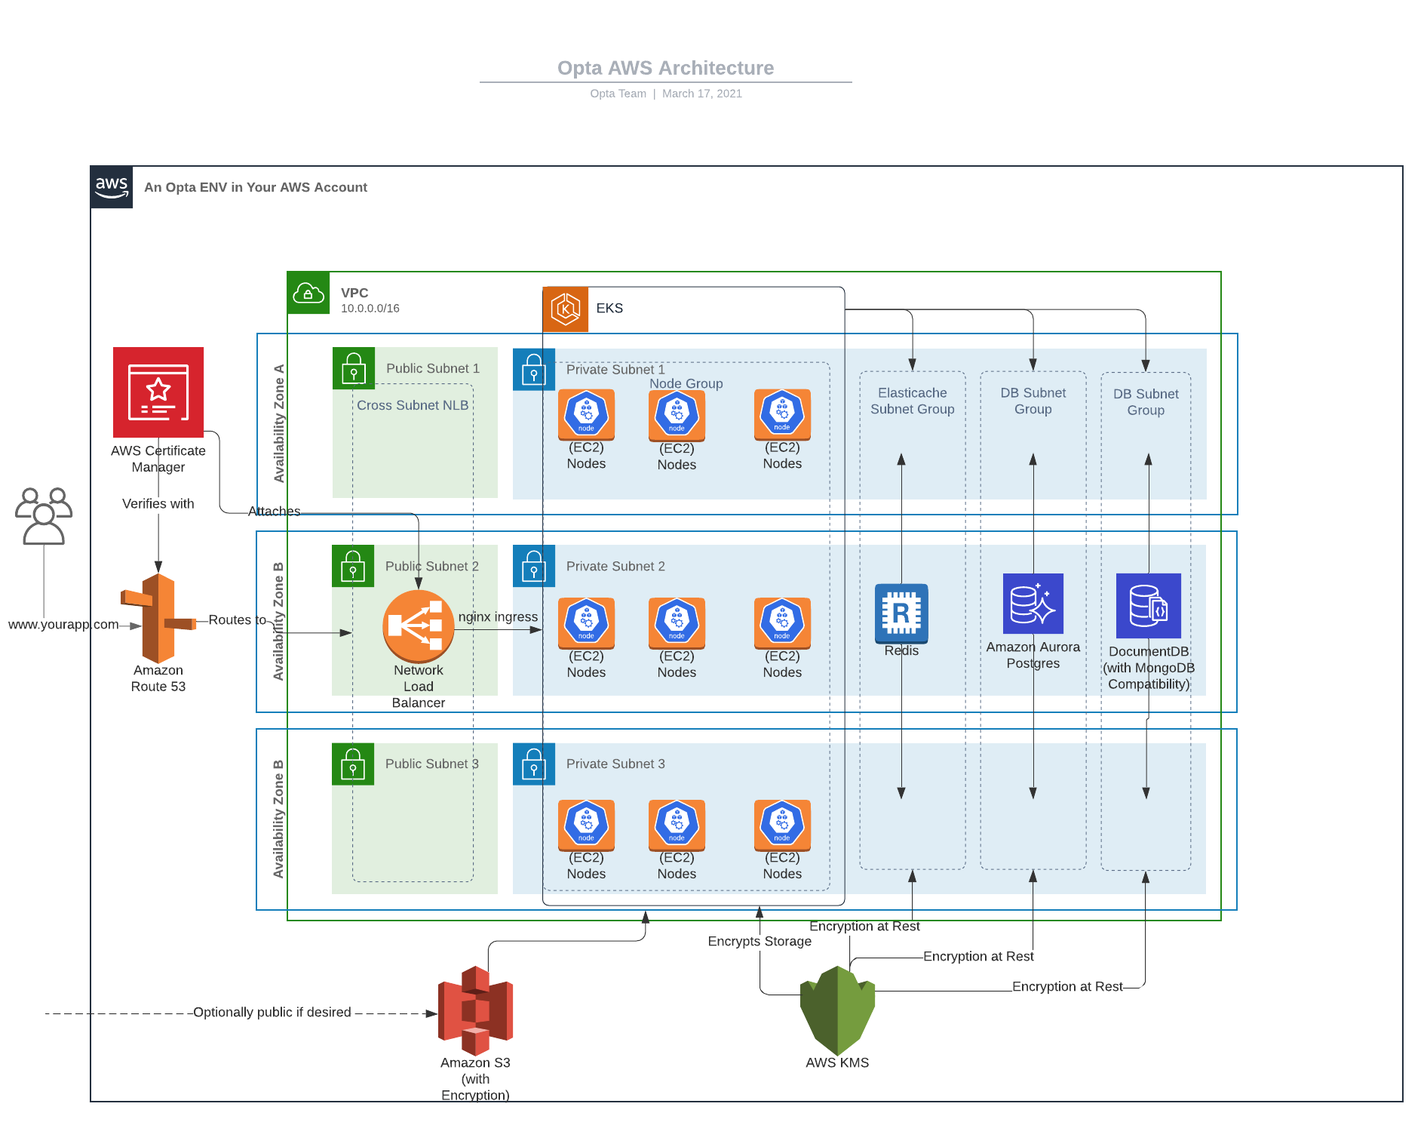
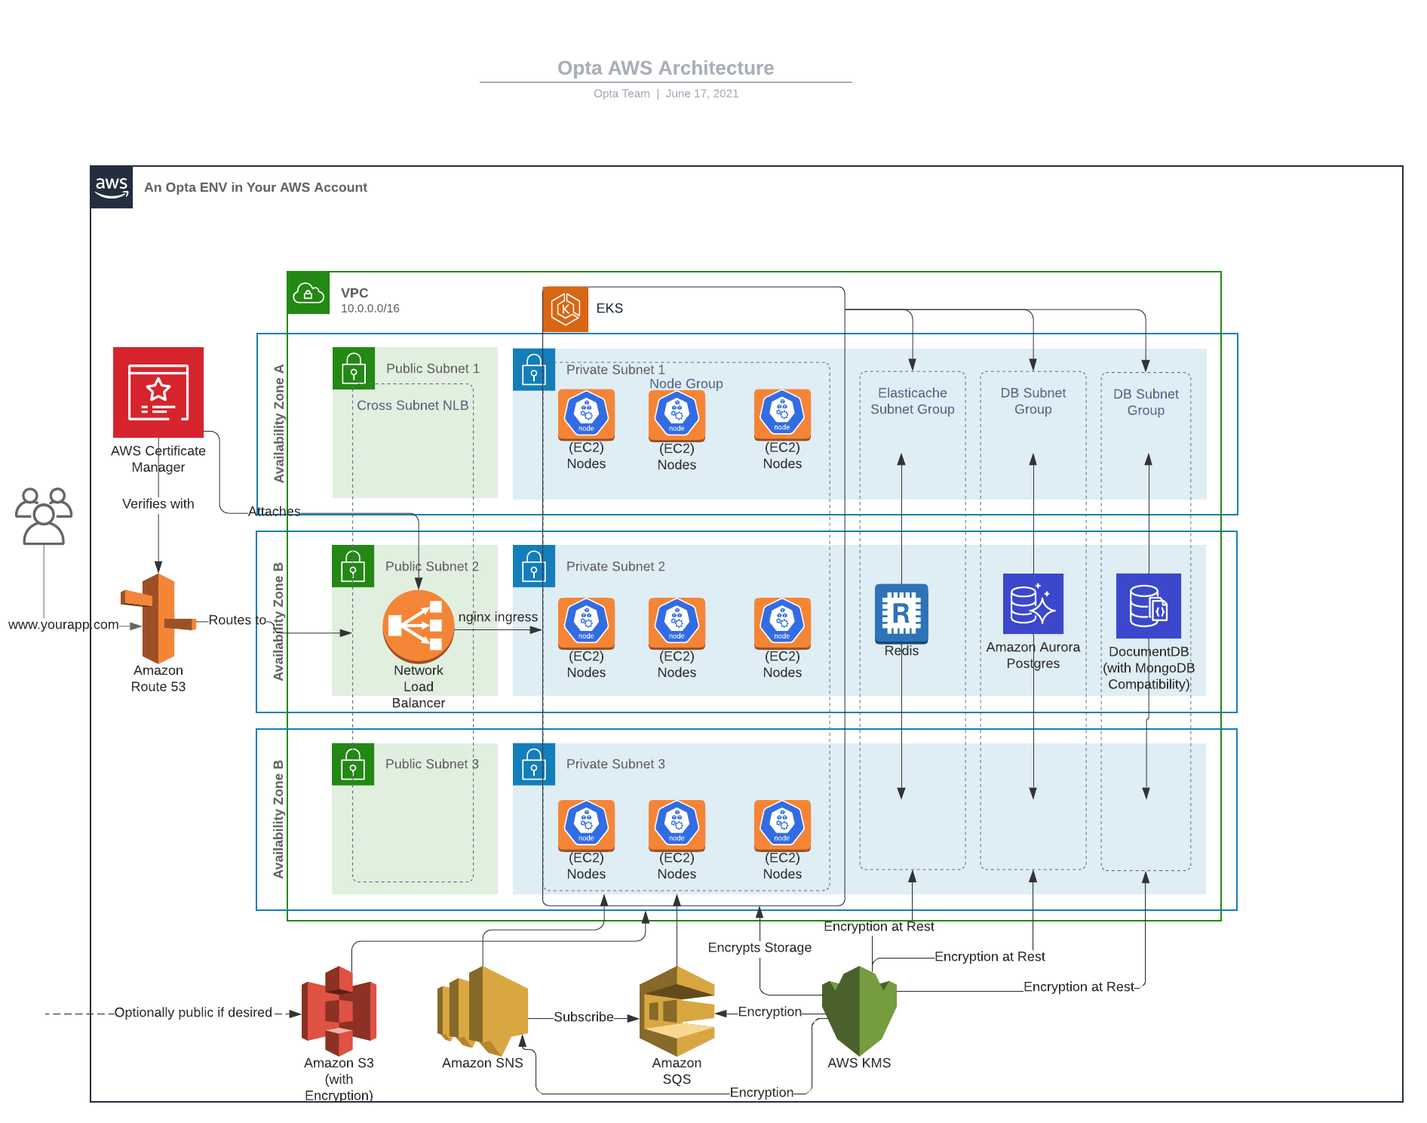
Adding GCP architecture and some updates/refactoring

diff --git a/content/en/Architecture/_index.md b/content/en/Architecture/_index.md
@@ -11,111 +11,3 @@ sets up a sophisticated, yet robust, architecture for your services and environm
 architecture can be broken up between resources in the base cloud provider (e.g. AWS, GCP), and internal to the 
 kubernetes clusters we deploy. Below are the specifications and answers for the common security questions.
 
-## AWS
-![image alt text](/images/opta_aws_architecture.png)
-For AWS our environments are currently setup within a single region, but our networking is set up across 3 availability
-zones by default, split between a private and public subnet (which we provision as we do not use the default vpc). 
-The public subnet is solely used for the public load balancer, while the ec2s (VMs) and databases all exist within
-the private subnet.
-
-We deploy the EKS cluster with one nodegroup spanning all the private subnets created. The current EKS cluster version
-is 1.18, but this can be manually overridden if needed (and we get security patches as needed automatically via EKS).
-Currently, there is a public cluster endpoint, but this may be revisited once a story for VPN support is planned out.
-[Encryption for the secrets is also provided via KMS](https://aws.amazon.com/blogs/containers/using-eks-encryption-provider-support-for-defense-in-depth/).
-
-For databases, we currently have modules for postgres (AWS Aurora), redis (AWS Elasticache), and the mongodb compatible
-documentdb (AWS Documentdb). We only offer 1 instance per db (no read or write replicas), but we hope to add this
-feature as customers demand. The postgres and documentdb databases are built with 5 day retention of backups in case of
-emergency. The username and passwords are created with the database and are passed securely to the K8s services as 
-secrets (pls see K8s section for security around secrets).
-
-There also is a module for S3 storage, which creates a private bucket by default (but can be set to public via fields)
-and all the buckets are encrypted at rest with AES 256 regardless.
-
-Lastly, DNS and SSL are currently handled via one Route53 hosted zone and one ACM certificate respectively. ACM cert
-verification is done with Route53 record manipulation in the given hosted zone. Records will be added to the hosted
-zone directing to the load balancer via an open source integration (see K8s section).
-
-### Security Concerns
-* All databases and ec2s are run within the private subnets (i.e. can access the internet via a nat gateway, but 
-  nothing external can reach them).
-* All databases (redis, documentdb, sql) are encrypted at rest with a KMS key provisioned by the environment.
-* All database connections use SSL encryption.
-* All S3 buckets are encrypted with AES 256.
-* All networking access is managed via security groups either auto-provisioned by EKS, or manually crafted to just 
-  expose to the VPC and just the ports required for standard usage (i.e. 5432 for postgres).
-* The EKS node ec2s are created with just the AmazonEKSClusterPolicy
-* The EKS storage (e.g. K8s secrets) is encrypted at rest via KMS 
-* K8s service accounts are mapped to IAM roles via the officially sanctioned [OIDC](https://docs.aws.amazon.com/eks/latest/userguide/enable-iam-roles-for-service-accounts.html)
-  manner, with no long-lived credentials.
-* No long-lived IAM credentials are ever created.
-* All ECR images/repos are private to the account.
-* S3 buckets created privately by default.  
-* 5 day backup retentions for the postgres/documentdb databases.  
-* Currently, the EKS cluster is built with a public endpoint for the simple usage (can add private option later on once
-  VPN feature is added).
-
-## GCP
-_Coming soon!_
-
-## K8s
-![image alt text](/images/opta_internal_kubernetes_architecture.png)
-
-The K8s topology is divided into namespaces of 2 types: 3rd party integrations and opta services. The third party 
-integrations consist of respected open source projects which handle background tasks or features expansions. These
-currently consist of:
-
-_Note_: GCP does an awesome job in support K8s and actually includes several of the following integrations/features by
-default. Watch for the notes at the end of each description.
-
-[Linkerd](https://linkerd.io/): Linkerd is the second most popular service mesh currently out there (right behind 
-Istio) and is the one we provide for our users. We chose it over Istio due to its absurdly simple maintenance and 
-upgrade stories while still offering the vast majority of the important service mesh features (e.g. traffic control,
-grpc+http load balancing, mTLS, golden metrics). Linkerd also takes pride in its security and has undergone intense
-security audits. The typical opta user should not even see it.
-
-[Metrics Server](https://github.com/kubernetes-sigs/metrics-server): The official metric server, distributed separately
-for EKS (comes with GKE) and used to power the standard horizontal pod autoscaler metrics (e.g. automatically scale up
-or scale down your server as needed for current load). _Builtin on GKE_
-
-[Cluster Autoscaler](https://github.com/kubernetes/autoscaler/tree/master/cluster-autoscaler): The official node 
-autoscaler, distributed separately for EKS (comes with GKE) and used to add/remove underlying machines (e.g. ec2s of 
-compute instances) serving as the nodes. _Builtin on GKE_
-
-[Ingress Nginx](https://kubernetes.github.io/ingress-nginx/): An official ingress (i.e. how to expose the cluster to 
-the outside world) which uses a fleet of nginx containers to route incoming traffic from a load balancer to inside the
-cluster and a desired service. _Not used on GKE_
-
-[External DNS](https://github.com/kubernetes-sigs/external-dns): An official project used to automatically add DNS 
-records for load balancers created by the cluster.
-
-[Datadog](https://github.com/DataDog/helm-charts/tree/master/charts/datadog): The official K8s integration for Datadog
-which sends cluster metrics + events and container logs over to your datadog account. We also configure it to accept
-any custom metrics or apm automatically by using their official client libraries. This integration is not part of the
-opta K8s base, but most be added separately w/ the Datadog K8s module.
-
-All of these additions (as well as the Opta services), are managed via [Helm Charts](https://helm.sh/) (using V3), and
-are deployed separately to their own namespace.
-
-Opta services are also deployed to unique namespaces formed out of their layer name (base name on the opta yaml-- there
-should never be more than one k8s service per opta yaml). Each opta service consists of one K8s service, deployment (and
-its affiliated pods), horizontal pod autoscaler, configmap, service account, and optionally an ingress if they so wish
-to expose their opta service's api to the public. The deployment manages the different pods (e.g. containers/servers)
-of your application while the K8s service is used with Linkerd to route cluster-internal traffic-- as is, any service 
-can be contacted via a domain of the form MODULE_NAME.LAYERNAME, such as app.hello-world for the Getting Started example. The horizontal pod
-autoscaler is responsible for increasing/decreasing the number of pods of the deployment as needed based on cpu ad memory 
-usage. The service account ties the deployment to a given cloud IAM AWS role/GCP service account to get any permissions
-for cloud resources (e.g. GCS/S3 access). There are no further K8s roles added to the service account meaning that
-one Opta service will not be able to manipulate the K8s resources for another. The secret (always encrypted at rest) is 
-used for sensitive custom data, as well as database access credentials. Lastly, we have a configmap (for EKS) which 
-currently holds the latest public key needed for documentdb usage.
-
-### Security Concerns
-* [Here is Linkerd's security audit](https://github.com/linkerd/linkerd2/blob/main/SECURITY_AUDIT.pdf)
-* All cross-service communication is encrypted via mTLS
-* All 3rd party charts used are the official ones when applicable or provided by bitnami and version-locked.
-* All IAM roles for 3rd party charts are endowed with just the required permissions for their roles following the
-  principle of least privilege.  
-* All opta service deployments are bound to service accounts, with no extra K8s roles.
-* Opta currently does not modify the aws-auth configmap for EKS.
-* We use Helm V3

diff --git a/content/en/Architecture/kubernetes.md b/content/en/Architecture/kubernetes.md
@@ -1,0 +1,61 @@
+## K8s
+![image alt text](/images/opta_internal_kubernetes_architecture.png)
+
+The K8s topology is divided into namespaces of 2 types: 3rd party integrations and opta services. The third party
+integrations consist of respected open source projects which handle background tasks or features expansions. These
+currently consist of:
+
+_Note_: GCP does an awesome job in support K8s and actually includes several of the following integrations/features by
+default. Watch for the notes at the end of each description.
+
+[Linkerd](https://linkerd.io/): Linkerd is the second most popular service mesh currently out there (right behind
+Istio) and is the one we provide for our users. We chose it over Istio due to its absurdly simple maintenance and
+upgrade stories while still offering the vast majority of the important service mesh features (e.g. traffic control,
+grpc+http load balancing, mTLS, golden metrics). Linkerd also takes pride in its security and has undergone intense
+security audits. The typical opta user should not even see it.
+
+[Metrics Server](https://github.com/kubernetes-sigs/metrics-server): The official metric server, distributed separately
+for EKS (comes with GKE) and used to power the standard horizontal pod autoscaler metrics (e.g. automatically scale up
+or scale down your server as needed for current load). _Builtin on GKE_
+
+[Cluster Autoscaler](https://github.com/kubernetes/autoscaler/tree/master/cluster-autoscaler): The official node
+autoscaler, distributed separately for EKS (comes with GKE) and used to add/remove underlying machines (e.g. ec2s of
+compute instances) serving as the nodes. _Builtin on GKE_
+
+[Ingress Nginx](https://kubernetes.github.io/ingress-nginx/): An official ingress (i.e. how to expose the cluster to
+the outside world) which uses a fleet of nginx containers to route incoming traffic from a load balancer to inside the
+cluster and a desired service.
+
+[External DNS](https://github.com/kubernetes-sigs/external-dns): An official project used to automatically add DNS
+records for load balancers created by the cluster. _Not used on GKE_
+
+[Datadog](https://github.com/DataDog/helm-charts/tree/master/charts/datadog): The official K8s integration for Datadog
+which sends cluster metrics + events and container logs over to your datadog account. We also configure it to accept
+any custom metrics or apm automatically by using their official client libraries. This integration is not part of the
+opta K8s base, but most be added separately w/ the Datadog K8s module.
+
+All of these additions (as well as the Opta services), are managed via [Helm Charts](https://helm.sh/) (using V3), and
+are deployed separately to their own namespace.
+
+Opta services are also deployed to unique namespaces formed out of their layer name (base name on the opta yaml-- there
+should never be more than one k8s service per opta yaml). Each opta service consists of one K8s service, deployment (and
+its affiliated pods), horizontal pod autoscaler, configmap, service account, and optionally an ingress if they so wish
+to expose their opta service's api to the public. The deployment manages the different pods (e.g. containers/servers)
+of your application while the K8s service is used with Linkerd to route cluster-internal traffic-- as is, any service
+can be contacted via a domain of the form MODULE_NAME.LAYERNAME, such as app.hello-world for the Getting Started example. The horizontal pod
+autoscaler is responsible for increasing/decreasing the number of pods of the deployment as needed based on cpu ad memory
+usage. The service account ties the deployment to a given cloud IAM AWS role/GCP service account to get any permissions
+for cloud resources (e.g. GCS/S3 access). There are no further K8s roles added to the service account meaning that
+one Opta service will not be able to manipulate the K8s resources for another. The secret (always encrypted at rest) is
+used for sensitive custom data, as well as database access credentials. Lastly, we have a configmap (for EKS) which
+currently holds the latest public key needed for documentdb usage.
+
+### Security Concerns
+* [Here is Linkerd's security audit](https://github.com/linkerd/linkerd2/blob/main/SECURITY_AUDIT.pdf)
+* All cross-service communication is encrypted via mTLS
+* All 3rd party charts used are the official ones when applicable or provided by bitnami and version-locked.
+* All IAM roles for 3rd party charts are endowed with just the required permissions for their roles following the
+  principle of least privilege.
+* All opta service deployments are bound to service accounts, with no extra K8s roles.
+* Opta currently does not modify the aws-auth configmap for EKS.
+* We use Helm V3

diff --git a/content/en/Architecture/gcp.md b/content/en/Architecture/gcp.md
@@ -1,0 +1,52 @@
+## GCP
+![image alt text](/images/opta_gcp_architecture.png)
+For GCP our environments are currently setup within a single region/subnet which google can automatically distribute
+between all the region's availability zones. The subnet is a private one and only the load balancer and GCS buckets
+are allowed to be reachable from the public internet (although the GCS buckets would typically require credentials).
+In order to keep networking as private as possible, we setup a 
+[service networking peering](https://cloud.google.com/vpc/docs/private-service-connect) so that the databases and caches
+can be accessed via private connection and so have no public endpoints.
+
+We deploy the GKE cluster with one nodegroup spanning all the azs in the region/subnet. By default, it is subrscribed to
+the "REGULAR" [channel](https://cloud.google.com/kubernetes-engine/docs/concepts/release-channels), but that can be
+manually overridden if needed.  Currently, there is a public cluster endpoint, but this may be revisited once a story 
+for VPN support is planned out.
+[Encryption for the secrets is also provided via KMS](https://cloud.google.com/kubernetes-engine/docs/how-to/encrypting-secrets).
+
+For databases, we currently have modules for postgres, mysql, and redis. We only offer 1 instance per db 
+(no read or write replicas), but we hope to add this feature as customers demand. The postgres and mysql databases are 
+built with 7 day retention of backups in case of emergency. The username and passwords are created with the database 
+and are passed securely to the K8s services as secrets (pls see K8s section for security around secrets).
+
+There is a module for GCS storage, which creates a private bucket by default (but can be set to public via fields)
+and all the buckets are encrypted at rest with the environment's base kms key.
+
+Lastly, DNS and SSL are currently handled via one Cloud DNS hosted zone and one Google-managed ssl certificate 
+respectively. SSL cert verification is done automatically by GCP by manipulating existing resources. Records will be 
+added to the hosted zone directing to the load balancer via an open source integration (see K8s section).
+
+### Security Concerns
+* With linkerd and domain delegation complete, opta environments will have end-to-end encryption on all opta services.
+* All vms are run within the private subnet (i.e. can access the internet via a nat gateway, but
+  nothing external can reach them).
+* All databases/caches are run with the service connect option (peering with GCP's internal networks) and are not publicly exposed.
+* Databases and caches are currently encrypted using 
+  [GCP's managed keys](https://cloud.google.com/kubernetes-engine/docs/how-to/hardening-your-cluster#use_least_privilege_sa).
+  Opta will switch to encrypt via customer managed keys once such features are GA.
+* All database connections use SSL encryption.
+* Redis connections do NOT ssl encryption at the moment due to 
+  [the difficulty of configuration](https://cloud.google.com/memorystore/docs/redis/in-transit-encryption). We will
+  re-address this issue based on customer demand.
+* All GCS buckets are encrypted with the environment's default KMS key.
+* All networking access is managed via firewall rules either auto-provisioned by GKE, or manually crafted (currently
+  opening up full connection within the private network).
+* The GKE node vms are created with a service account using the [recommended least privilege list](https://cloud.google.com/kubernetes-engine/docs/how-to/hardening-your-cluster#use_least_privilege_sa)
+* The GKE storage (e.g. K8s secrets) is encrypted at rest via KMS
+* K8s service accounts are mapped to IAM roles via the officially sanctioned [OIDC](https://docs.aws.amazon.com/eks/latest/userguide/enable-iam-roles-for-service-accounts.html)
+  manner, with no long-lived credentials.
+* No long-lived IAM credentials are ever created.
+* All GCR images/repos are private to the account.
+* S3 buckets created privately by default.
+* 7 day backup retentions for the postgres/mysql databases.
+* Currently, the GKE cluster is built with a public endpoint for the simple usage (can add private option later on once
+  VPN feature is added).

diff --git a/content/en/Architecture/aws.md b/content/en/Architecture/aws.md
@@ -1,0 +1,55 @@
+## AWS
+![image alt text](/images/opta_aws_architecture.png)
+For AWS our environments are currently setup within a single region, but our networking is set up across 3 availability
+zones by default, split between a private and public subnet (which we provision as we do not use the default vpc).
+The public subnet is solely used for the public load balancer, while the ec2s (VMs) and databases all exist within
+the private subnet.
+
+We deploy the EKS cluster with one nodegroup spanning all the private subnets created. The current EKS cluster version
+is 1.18, but this can be manually overridden if needed (and we get security patches as needed automatically via EKS).
+Currently, there is a public cluster endpoint, but this may be revisited once a story for VPN support is planned out.
+[Encryption for the secrets is also provided via KMS](https://aws.amazon.com/blogs/containers/using-eks-encryption-provider-support-for-defense-in-depth/).
+
+For databases, we currently have modules for postgres (AWS Aurora), redis (AWS Elasticache), and the mongodb compatible
+documentdb (AWS Documentdb). We only offer 1 instance per db (no read or write replicas), but we hope to add this
+feature as customers demand. The postgres and documentdb databases are built with 5 day retention of backups in case of
+emergency. The username and passwords are created with the database and are passed securely to the K8s services as
+secrets (pls see K8s section for security around secrets).
+
+There is a module for S3 storage, which creates a private bucket by default (but can be set to public via fields)
+and all the buckets are encrypted at rest with AES 256 regardless.
+
+There is a module for SQS queues which creates the queue as well as a new kms key with which to encrypt
+the queue at rest.
+
+There is a module for SNS topics which creates the topic as well as a new kms key with which to encrypt it, and 
+optionally.
+
+To grant access to AWS resources programmatically, a user can use our IAM user/role modules and use the links field
+to add permissions for the listed resources with the permissions which they specify or the default.
+
+Lastly, DNS and SSL are currently handled via one Route53 hosted zone and one ACM certificate respectively. ACM cert
+verification is done with Route53 record manipulation in the given hosted zone. Records will be added to the hosted
+zone directing to the load balancer via an open source integration (see K8s section).
+
+### Security Concerns
+* With linkerd and domain delegation complete, opta environments will have end-to-end encryption on all opta services.
+* All databases and ec2s are run within the private subnets (i.e. can access the internet via a nat gateway, but
+  nothing external can reach them).
+* All databases (redis, documentdb, sql) are encrypted at rest with a KMS key provisioned by the environment.
+* All database connections use SSL encryption.
+* All S3 buckets are encrypted with AES 256.
+* All SQS queues are encrypted at rest, each with a personal KMS key.
+* All SNS topics are encrypted at rest, each with a personal KMS key.  
+* All networking access is managed via security groups either auto-provisioned by EKS, or manually crafted to just
+  expose to the VPC and just the ports required for standard usage (i.e. 5432 for postgres).
+* The EKS node ec2s are created with just the AmazonEKSClusterPolicy
+* The EKS storage (e.g. K8s secrets) is encrypted at rest via KMS
+* K8s service accounts are mapped to IAM roles via the officially sanctioned [OIDC](https://docs.aws.amazon.com/eks/latest/userguide/enable-iam-roles-for-service-accounts.html)
+  manner, with no long-lived credentials.
+* No long-lived IAM credentials are ever created.
+* All ECR images/repos are private to the account.
+* S3 buckets created privately by default.
+* 5 day backup retentions for the postgres/documentdb databases.
+* Currently, the EKS cluster is built with a public endpoint for the simple usage (can add private option later on once
+  VPN feature is added).

diff --git a/content/en/Modules reference/Service modules/aws.md b/content/en/Modules reference/Service modules/aws.md
@@ -142,11 +142,10 @@ This module creates an S3 bucket for storage purposes. It is created with server
 
 *Linking*
 
-When linked to a k8s-service, this adds the necessary IAM permissions to read 
+When linked to a k8s-service or IAM role/user, this adds the necessary IAM permissions to read 
 (e.g. list objects and get objects) and/or write (e.g. list, get,
 create, destroy, and update objects) to the given s3 bucket. 
-The current permissions are, "read" and "write". These need to be
-specified when you add the link.
+The current permissions are, "read" and "write", defaulting to "write" if none specified
 
 ## k8s-service
 The most important module for deploying apps, k8s-service deploys a kubernetes app.
@@ -271,18 +270,6 @@ permission to access them.
       - topic
 ```
 
-## aws-ses
-
-Sets up AWS SES for sending domains via your root domain. Note:
-- It's required to set up the aws-dns module with this.
-- Opta also files a ticket with AWS support to get out of SES sandbox mode.
-
-*Fields*
-* `mail_from_prefix` -- Optional. Subdomain to use with root domain. `mail` by default.
-
-*Outputs*
-None
-
 ## aws-sqs
 
 Sets up a AWS SQS queue.
@@ -299,6 +286,13 @@ Sets up a AWS SQS queue.
 * `queue_id` -- ID of the Queue
 * `queue_name` -- Name of the Queue
 
+*Linking*
+
+When linked to a k8s-service or IAM role/user, this adds the necessary IAM permissions to publish
+(e.g. put new messages) and/or subscribe (e.g. read/remove messages) to the given queue.
+The current permissions are, "publish" and "subscribe", defaulting to \["publish", "subscribe",] if none specified.
+Link also grants encrypt/decrypt permission for the queue's KMS key.
+
 ## aws-sns
 
 Sets up a AWS SNS topic.
@@ -310,3 +304,9 @@ Sets up a AWS SNS topic.
 
 *Outputs*
 * `topic_arn` -- ARN for the topic
+
+*Linking*
+
+When linked to a k8s-service or IAM role/user, this adds the necessary IAM permissions to publish
+notifications to the topic.  The current permission allowed is just, "publish".
+Link also grants encrypt/decrypt permission for the topic's KMS key.

diff --git a/content/en/Modules reference/Environment modules/aws.md b/content/en/Modules reference/Environment modules/aws.md
@@ -98,3 +98,15 @@ None for the user, we allow no configuration at the time.
 
 *Outputs*
 None
+
+## aws-ses
+
+Sets up AWS SES for sending domains via your root domain. Note:
+- It's required to set up the aws-dns module with this.
+- Opta also files a ticket with AWS support to get out of SES sandbox mode.
+
+*Fields*
+* `mail_from_prefix` -- Optional. Subdomain to use with root domain. `mail` by default.
+
+*Outputs*
+None
